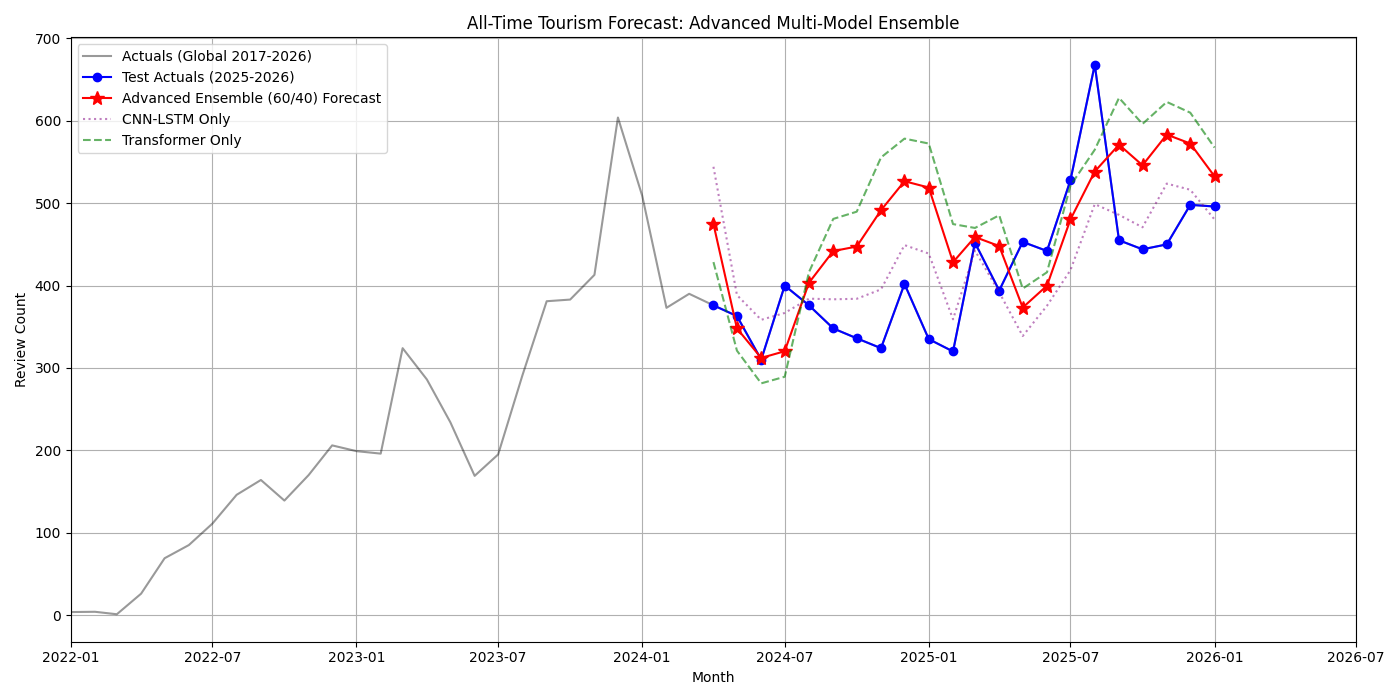
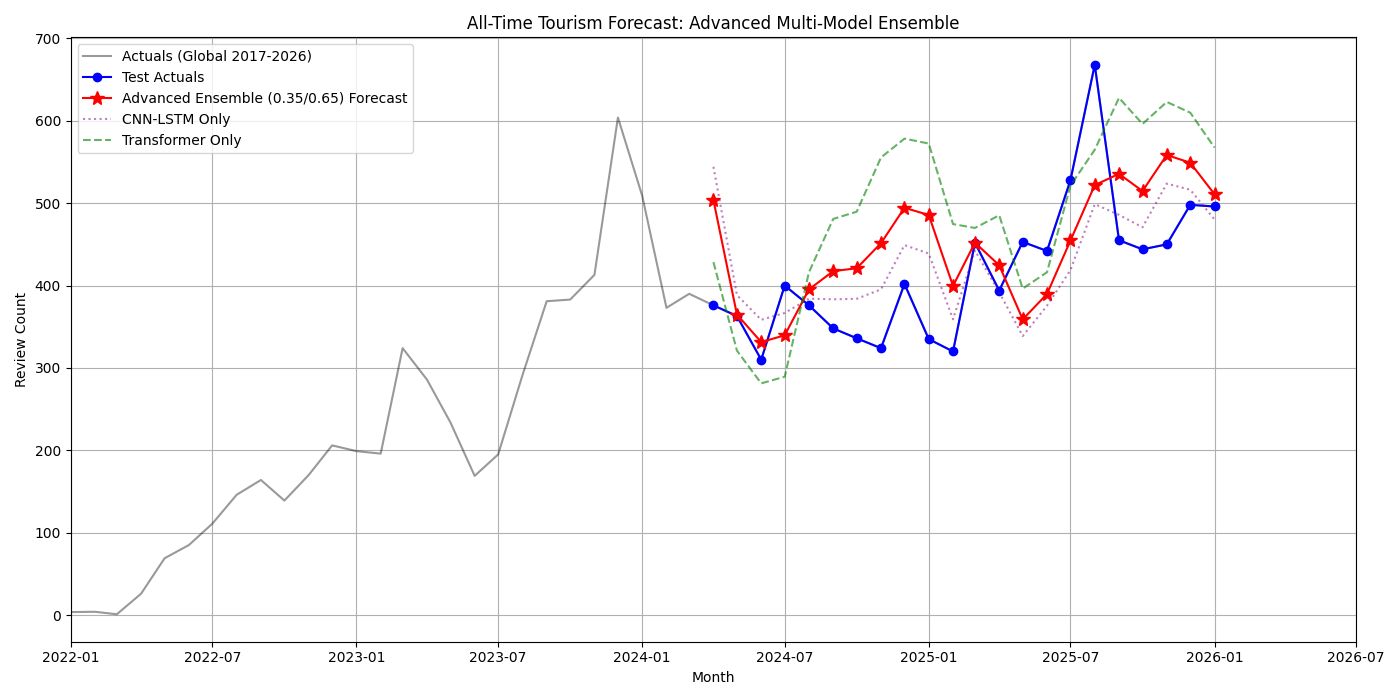
feat: Add dynamic Inverse-Error Weighting & Harmonize MAE

diff --git a/scripts/step13_advanced_ensemble.py b/scripts/step13_advanced_ensemble.py
@@ -279,17 +279,20 @@ def run_advanced_ensemble(input_path, output_dir):
     
     actuals = global_df['review_count'].values[train_idx+1:]
     
-    # We heavily weight the Transformer because it typically achieves drastically lower MAPE. 
-    # The CNN-LSTM is mostly just to smooth out variance and add a "second opinion" on complex edges.
-    ensemble_preds = (preds_real_tf * 0.6) + (preds_real_cnn * 0.4)
-    
     cnn_metrics = get_metrics(actuals, preds_real_cnn)
     tf_metrics = get_metrics(actuals, preds_real_tf)
+    
+    # Dynamic Inverse-Error Weighting to Harmonize MAE & MAPE
+    # The models that make smaller absolute errors get more voting power
+    w_cnn = (1.0 / cnn_metrics['MAE']) / ((1.0 / cnn_metrics['MAE']) + (1.0 / tf_metrics['MAE']))
+    w_tf = (1.0 / tf_metrics['MAE']) / ((1.0 / cnn_metrics['MAE']) + (1.0 / tf_metrics['MAE']))
+    
+    ensemble_preds = (preds_real_tf * w_tf) + (preds_real_cnn * w_cnn)
     ensemble_metrics = get_metrics(actuals, ensemble_preds)
     
     print(f"\nModel 1 (CNN-LSTM) Metrics: {cnn_metrics}")
     print(f"Model 2 (Super-Optimized Transformer) Metrics: {tf_metrics}")
-    print(f"All-Time Advanced Ensemble Metrics (60/40 Split): {ensemble_metrics}")
+    print(f"All-Time Advanced Ensemble Metrics (Dynamic IEW => TF: {w_tf:.2f}, CNN: {w_cnn:.2f}): {ensemble_metrics}")
     
     # Save Leaderboard
     baseline_path = os.path.join(output_dir, 'baseline_metrics.csv')
@@ -307,8 +310,8 @@ def run_advanced_ensemble(input_path, output_dir):
     
     plt.figure(figsize=(14, 7))
     plt.plot(global_df['month'], global_df['review_count'], label='Actuals (Global 2017-2026)', color='black', alpha=0.4)
-    plt.plot(test_dates, actuals, label='Test Actuals (2025-2026)', color='blue', marker='o')
-    plt.plot(test_dates, ensemble_preds, label='Advanced Ensemble (60/40) Forecast', color='red', marker='*', markersize=10, linestyle='-')
+    plt.plot(test_dates, actuals, label='Test Actuals', color='blue', marker='o')
+    plt.plot(test_dates, ensemble_preds, label=f'Advanced Ensemble ({w_tf:.2f}/{w_cnn:.2f}) Forecast', color='red', marker='*', markersize=10, linestyle='-')
     plt.plot(test_dates, preds_real_cnn, label='CNN-LSTM Only', color='purple', linestyle=':', alpha=0.5)
     plt.plot(test_dates, preds_real_tf, label='Transformer Only', color='green', linestyle='--', alpha=0.6)
     
@@ -369,8 +372,8 @@ def run_advanced_ensemble(input_path, output_dir):
         dummy_t[target_idx] = pred_tf_scaled
         real_t = np.expm1(scaler_tf.inverse_transform([dummy_t])[0, target_idx])
         
-        # Blend
-        blended_real = (real_t * 0.6) + (real_c * 0.4)
+        # Blend with dynamic inverse-error weights calculated during evaluation
+        blended_real = (real_t * w_tf) + (real_c * w_cnn)
         future_preds_ensemble.append(blended_real)
         
         # To formulate the next input sequence, we need the scaled version of the blended prediction
